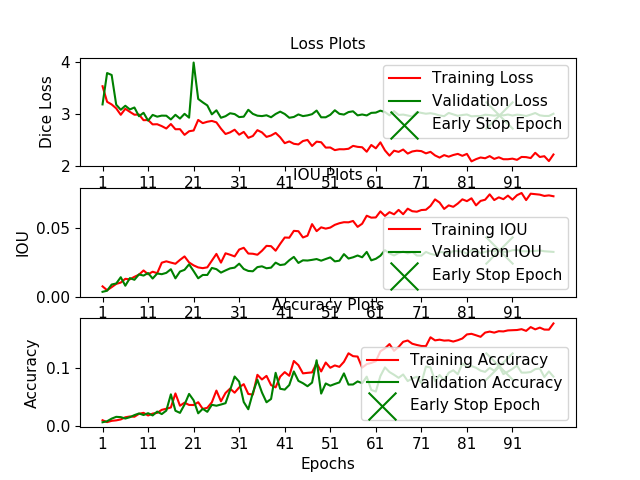
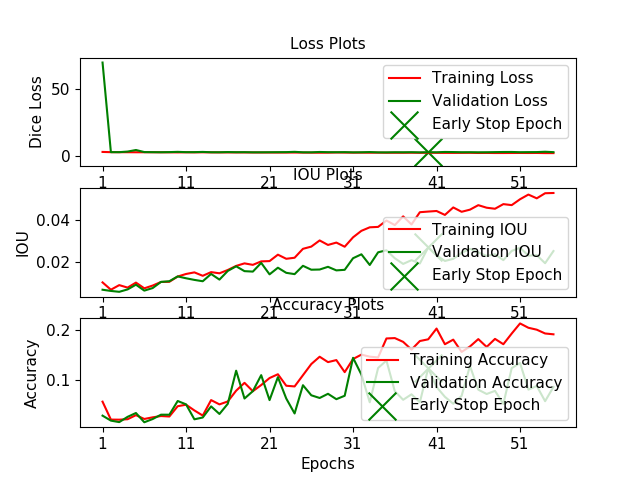
fcn8 working

diff --git a/models/fcn8.py b/models/fcn8.py
@@ -1,5 +1,5 @@
 import torch.nn as nn
-
+import torch
 
 
 class Conv(nn.Module):
@@ -81,12 +81,8 @@ class FCN8(nn.Module):
         self.conv11 = Conv(64, self.n_class)
 
         # Deconvolution layers
-        self.deconv = deConv(self.n_class, self.n_class)     #(n_class,14,14)
-        # self.deconv2 = deConv(self.n_class, self.n_class)     #(n_class,28,28)
-        # self.deconv3 = deConv(self.n_class, self.n_class)     #(n_class,56,56)
-        # self.deconv4 = deConv(self.n_class, self.n_class)     #(n_class,112,112)
-        # self.deconv5 = deConv(self.n_class, self.n_class)     #(n_class,224,224)
-
+        self.deconv_2n = deConv(2*self.n_class, self.n_class)
+        self.deconv_n = deConv(self.n_class, self.n_class)
 
 
     def forward(self, x):
@@ -98,10 +94,10 @@ class FCN8(nn.Module):
         out6 = self.conv6(self.mpool(out5))                #(4096,7,7)
         out7 = self.conv7(out6)                            #(n_class,7,7)
 
-        out8 = self.deconv(out7)                                      #(n_class,14,14)
-        out9 = self.deconv(out8 + self.conv8(self.mpool(out4)))       #(n_class,28,28)
-        out10 = self.deconv(out9 + self.conv9(self.mpool(out3)))      #(n_class,56,56)
-        out11 = self.deconv(out10 + self.conv10(self.mpool(out2)))    #(n_class,112,112)
-        y = self.deconv(out11 + self.conv11(self.mpool(out1)))    #(n_class,224,224)
+        out8 = self.deconv_n(out7)                                                          #(n_class,14,14)
+        out9 = self.deconv_2n(torch.cat((out8, self.conv8(self.mpool(out4))), dim=1))   #(n_class,28,28)
+        out10 = self.deconv_2n(torch.cat((out9, self.conv9(self.mpool(out3))), dim=1))   #(n_class,56,56)
+        out11 = self.deconv_2n(torch.cat((out10, self.conv10(self.mpool(out2))), dim=1)) #(n_class,112,112)
+        y = self.deconv_2n(torch.cat((out11, self.conv11(self.mpool(out1))), dim=1))  #(n_class,224,224)
 
         return y  # size=(N, n_class, H, W)

diff --git a/train.py b/train.py
@@ -57,10 +57,10 @@ test_loader = DataLoader(dataset=test_dataset, batch_size=16, shuffle=False)
 
 
 epochs = 100
-learning_rate = 0.001
+learning_rate = 5e-3
 n_class = 21
-patience = 25
-L2 = 0.0001
+patience = 15
+L2 = 0
 
 # determine which device to use (cuda or cpu)
 device  = 'cuda' if torch.cuda.is_available() else 'cpu'
@@ -74,7 +74,7 @@ models = {
     'skipFCN': skipFCN, 
     'UNet': UNet
     }
-model = models['UNet']
+model = models['FCN8']
 fcn_model = model(n_class=n_class).to(device=device)
 fcn_model.apply(init_weights)
 
@@ -206,7 +206,7 @@ def modelTest():
 
     with torch.no_grad():  # we don't need to calculate the gradient in the validation/testing
 
-        for iter, (input, label) in enumerate(val_loader):
+        for iter, (input, label) in enumerate(test_loader):
             input = input.to(device=device)
             label = label.to(device=device)
 
